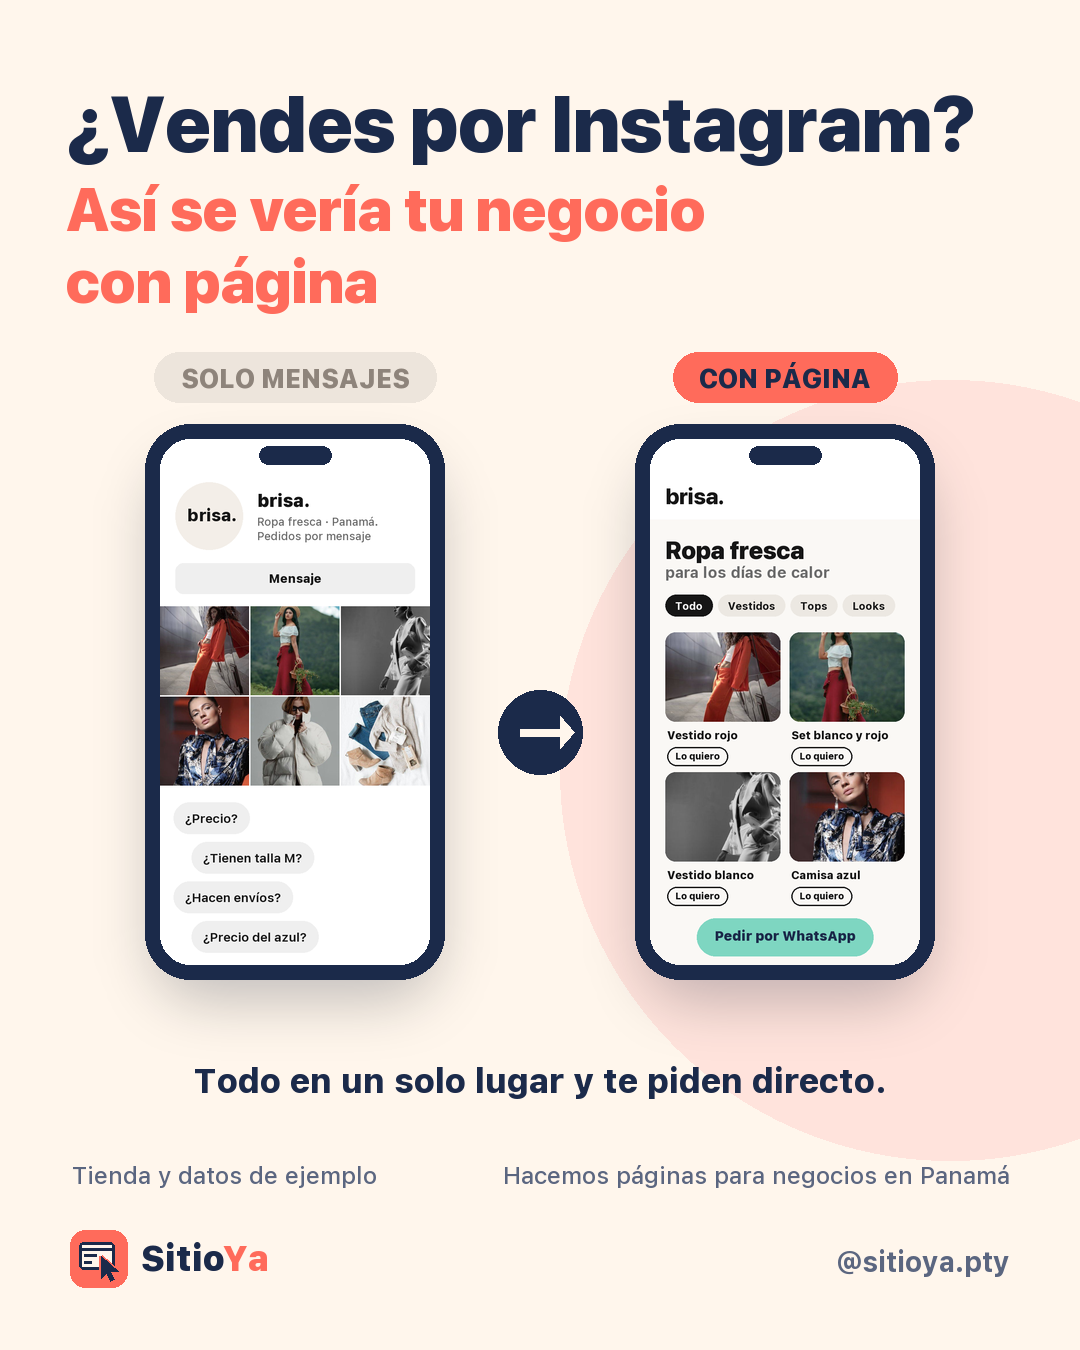
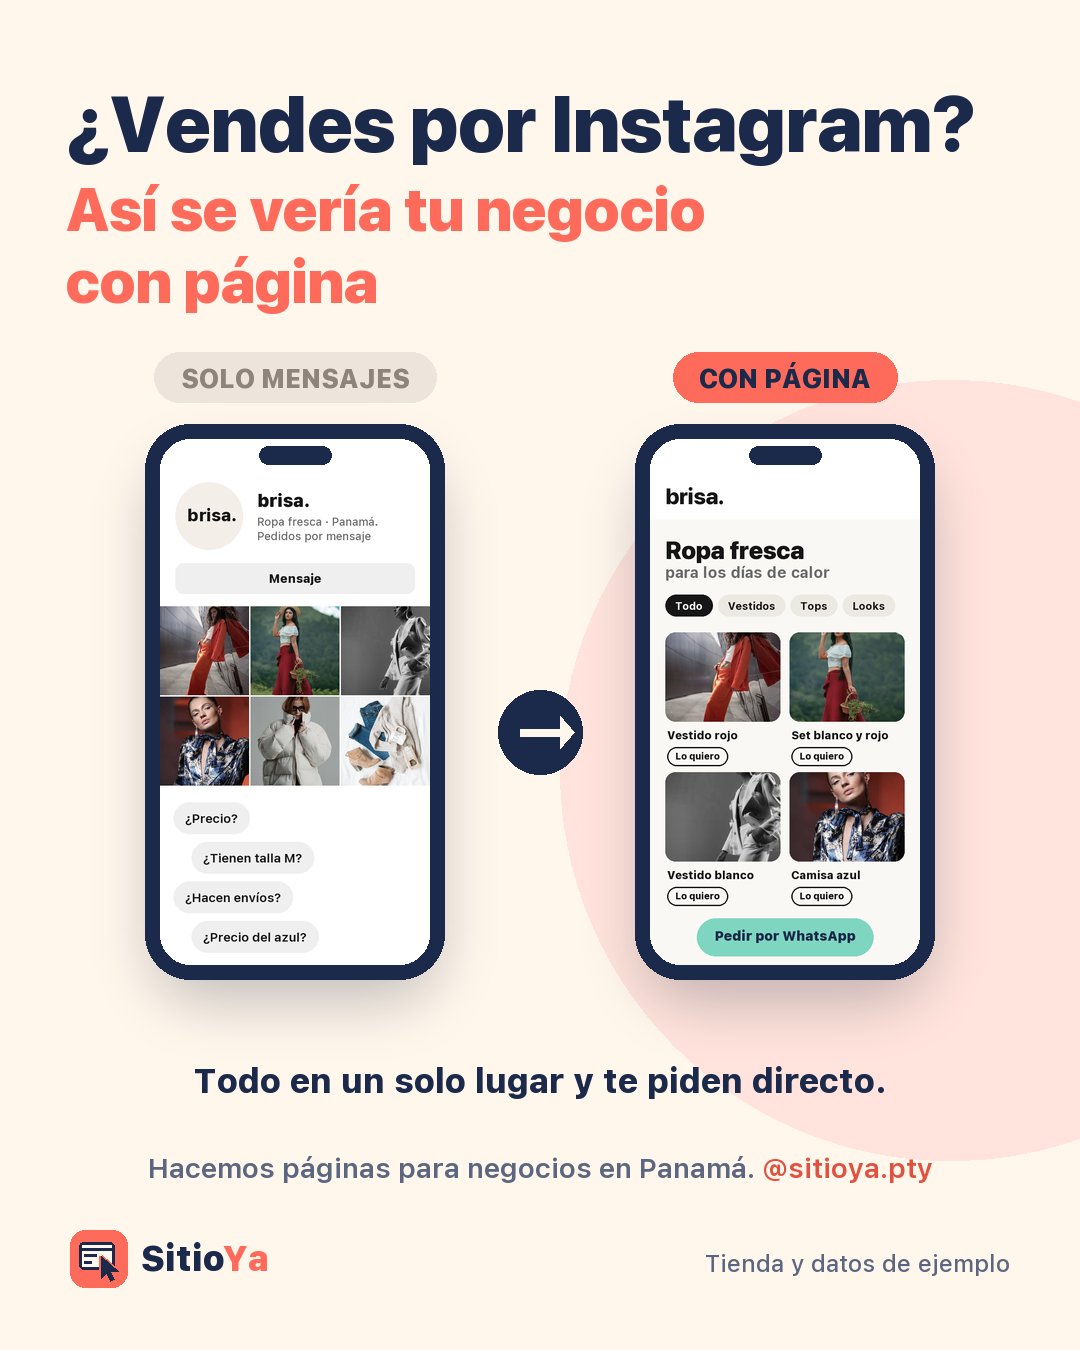
[Claude] Post 7 '¿Vendes por Instagram? Así se vería tu negocio con página': texto chico abajo 'Hacemos páginas para negocios en Panamá. @sitioya.pty' y aviso 'Tienda y datos de ejemplo' en el pie

Changed region(s): [[0.1222, 0.84, 0.8861, 0.9022], [0.6722, 0.9333, 0.9472, 0.9644], [0.8861, 0.8711, 0.9167, 0.9022]]

diff --git a/tools/redes_posts.py b/tools/redes_posts.py
@@ -493,12 +493,19 @@ def post_vendes_instagram():
     d = ImageDraw.Draw(im)
     parrafo(d, (540, 1060), 'Todo en un solo lugar y te piden directo.', fuente(34, 800), NAVY, 940, 1.25,
             centrado=True)
-    d.text((72, 1160), 'Tienda y datos de ejemplo', font=fuente(24, 500), fill=SOFT)
-    pie_simple(im)
+    # texto chico de abajo: 'Hacemos páginas para negocios en Panamá. @sitioya.pty'
+    fs = fuente(28, 600)
+    partes = (('Hacemos páginas para negocios en Panamá. ', SOFT), ('@sitioya.pty', CORAL_D))
+    x = (1080 - sum(texto_ancho(d, t, fs) for t, _ in partes)) / 2
+    for t, c in partes:
+        d.text((x, 1150), t, font=fs, fill=c)
+        x += texto_ancho(d, t, fs)
+    # pie: logo a la izquierda y el aviso de que la tienda es de ejemplo a la derecha
+    logo_sitioya(im, (70, 1350 - 120), 58)
     d = ImageDraw.Draw(im)
-    t = 'Hacemos páginas para negocios en Panamá'
-    fs = fuente(24, 500)
-    d.text((1080 - 70 - texto_ancho(d, t, fs), 1160), t, font=fs, fill=SOFT)
+    t = 'Tienda y datos de ejemplo'
+    fe = fuente(24, 500)
+    d.text((1080 - 70 - texto_ancho(d, t, fe), 1350 - 102), t, font=fe, fill=SOFT)
     return im
 
 

diff --git a/redes/posts/LEEME.md b/redes/posts/LEEME.md
@@ -25,7 +25,7 @@ El número es el orden: se publica del 1 al 13. Los 10, 11 y 12 son extra y van 
 6. `6-antes-y-despues.png` · Antes y después
    > Antes: te buscan y no te encuentran. Después: tu página con tus precios, tu horario y tu link para compartir. Comenta PÁGINA y te contamos
 
-7. `7-vendes-por-instagram.png` · ¿Vendes por Instagram? (vender solo por mensajes vs con página)
+7. `7-vendes-por-instagram.png` · ¿Vendes por Instagram? Así se vería tu negocio con página (vender solo por mensajes vs con página; abajo en chico "Hacemos páginas para negocios en Panamá. @sitioya.pty")
    > ¿Vendes solo por Instagram? Con una página tus clientes ven todo en un solo lugar y te piden directo. Comenta PÁGINA y te contamos
 
 8. `8-precios.png` · Precios
